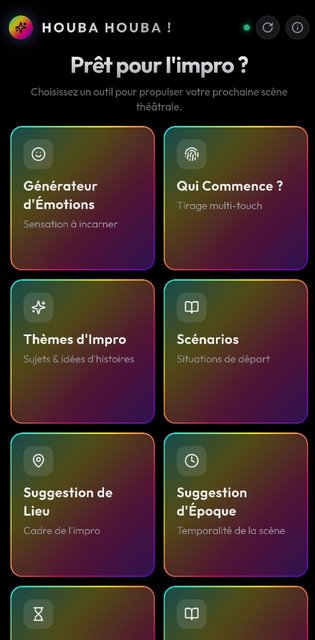
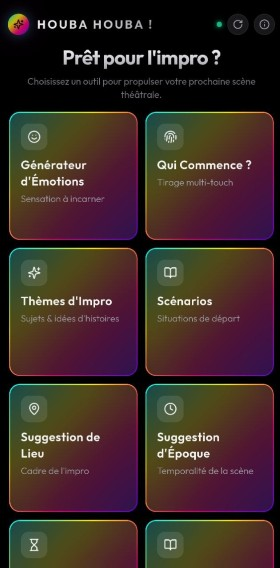
docs: add wishlist / todo section to README.md

diff --git a/README.md b/README.md
@@ -103,23 +103,38 @@ ssh eole.me "docker network connect jobby-md2html_default <nom_du_conteneur_trae
 
 ---
 
+## 📋 Wishlist / Todo
+
+Voici les fonctionnalités futures envisagées pour enrichir l'application :
+
+- [ ] **Mode Hors-ligne 100% autonome (Service Worker)** : Améliorer le cache de l'application pour un fonctionnement optimal sans connexion réseau via un Service Worker robuste.
+- [ ] **Import / Export de sets personnalisés** : Possibilité pour les troupes d'impro d'importer leurs propres fichiers de prompts au format JSON ou d'exporter le pool actuel.
+- [ ] **Historique de jeu & Historique des tirages** : Garder une trace locale (dans le `localStorage`) des 10 dernières improvisations jouées pour éviter les doublons absolus d'une séance sur l'autre.
+- [ ] **Timer avancé avec buzzer** : Ajouter des sons de buzzer de fin configurables, ainsi que la possibilité de régler le temps libre.
+- [ ] **Multilingue (FR / EN)** : Traduction complète de l'application pour l'usage dans des festivals ou ateliers internationaux.
+
+---
+
 ## 📝 Changelog
 
-### Version 0.3 BETA (1.0.0-beta.3)
+### Version 0.3 BETA (0.3-beta)
 - **Refactoring & Centralisation (React Context)** : Migration du buffer d'improvisation vers un Context Provider global (`ImprovBufferContext`) pour synchroniser les tirages entre tous les générateurs, éliminer les tirages doublons et éviter les requêtes n8n concurrentes. Découpage modulaire du hook en sous-hooks (`useToast`, `useDevMode`) et utilitaires (`bufferUtils`).
 - **Optimisation n8n & Réservoir de secours** : Extension du réservoir hors-ligne à **50 entrées par catégorie** (350 prompts au total) et sécurisation du workflow n8n via un double-port (succès/erreur) pour garantir le retour systématique du réservoir de secours lors des surcharges du modèle Gemini.
 - **Ajout d'échauffements & Descriptions** : Intégration de descriptions explicatives en français pour les exercices d'échauffement et les contraintes (catégories) de jeu, guidant l'utilisateur directement depuis l'interface.
 - **Ponçage des thèmes & Générateurs** : Enrichissement et affinage des listes de thèmes, époques, émotions et lieux pour maximiser la variété dramatique.
-- **Envoi de feedback & RGPD** : Sélecteur de note par balayage/glissement tactile ou souris (1 à 5 étoiles) avec émoticônes dynamiques connecté à Notion, validation obligatoire du consentement RGPD et intégration d'un modal de politique de confidentialité.
+- **Envoi de feedback & RGPD** : Sélecteur de note par balayage/glissement tactile ou souris (1 à 5 étoiles) avec émoticônes dynamiques connecté à Notion ou la base de votre choix (via n8n), validation obligatoire du consentement RGPD et intégration d'un modal de politique de confidentialité.
+- **Intégration de Feedback Email** : Mise en place d'un formulaire de feedback permettant aux utilisateurs de partager leurs expériences directement depuis l'application. Les données sont transmises via un workflow n8n qui envoie un email récapitulatif au propriétaire du site.
+- **Conditions générales d'utilisation** : Ajout d'un modal de conditions générales d'utilisation conforme au RGPD et validation explicite du consentement utilisateur sur le formulaire de retour.
 
-### Version BETA 2 (1.0.0-beta.2)
+### Version BETA 2 (0.2-beta)
 - **Architecture & Refactoring JSON** : Déplacement de la configuration des tuiles du tableau de bord et des données de repli des générateurs (émotions, lieux, époques) vers des fichiers JSON externes (`tiles.json`, `reservoir-config.json`).
 - **Description des échauffements** : Ajout d'un champ description explicatif en français pour chaque exercice d'échauffement dans l'interface et le prompt système Gemini.
 - **Robustesse n8n & Notion** : Gestion proactive des échecs d'API Notion dans le workflow n8n (renvoi d'une erreur 500 explicite et propagation propre au client).
 - **Simplification Docker & Makefile** : Harmonisation des commandes de démarrage local (`make up` / `make down` / `make restart`) et isolation réseau locale complète pour éviter tout conflit de ports ou de réseaux Docker. Ajout de `make deploy-delay` pour automatiser l'attente du cycle de build CI/CD.
 - **Normalisation du code** : Ajout d'en-têtes de commentaires de métadonnées normalisés pour toutes les classes, interfaces et routes d'API de l'application.
 
-### Version Beta 1 (1.0.0-beta.1)
+### Version Beta 1 (0.1-beta)
+- Corrections de bugs.
 - **Privacy & RGPD** : Ajout d'un modal de politique de confidentialité conforme au RGPD et validation explicite du consentement utilisateur sur le formulaire de retour.
 - **Chemins d'URL dynamiques & Routage** : Association de chaque tuile à un sous-chemin d'URL dédié (ex: `/emotions`, `/timer`) pour un accès direct, avec des règles de réécriture (*rewrites*) Next.js pour empêcher les erreurs 404 lors du rafraîchissement d'une page.
 - **Ajusteur de taille de texte** : Boutons d'ajustement dynamique de taille de police (Standard, Grand, Très Grand) dans l'Aide avec mémorisation persistante dans le `localStorage`.
